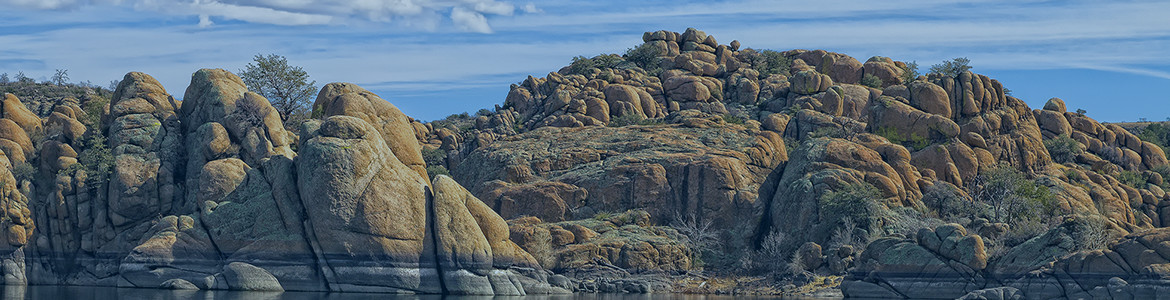
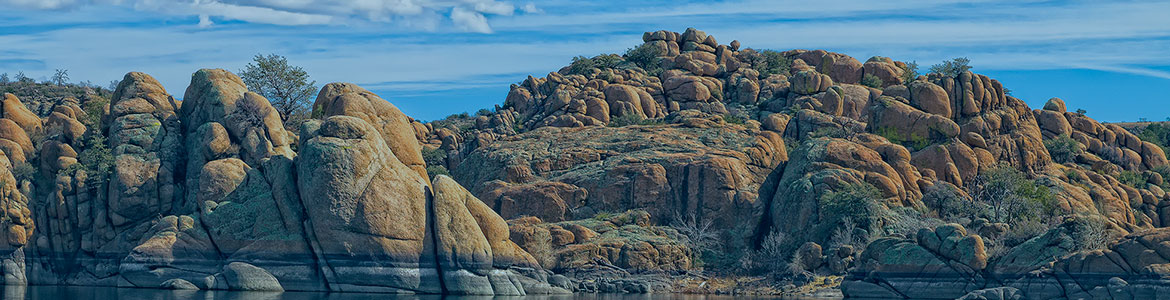
compress ui images

diff --git a/softwrench.sw4.kongsberg/web_content/kongsberg/styles/branding.css b/softwrench.sw4.kongsberg/web_content/kongsberg/styles/branding.css
@@ -12,6 +12,8 @@
 
         .page-signin .form-signin .logo {
             content: url(../images/logo-main-mobile.png);
+            /*width: 240px;*/
+            padding: 0 80px;
         }
 
 @media all and (min-width: 768px) {
@@ -21,23 +23,17 @@
 }
 
 .container header {
-    background: #143444 url(../images/header.png) no-repeat top left;
-    /*background: none;*/
+    background: #143444 url(../images/header.jpg) no-repeat top left;
+    -webkit-background-size: cover;
+    -moz-background-size: cover;
+    -o-background-size: cover;
+    background-size: cover;
 }
-
-    .container header .menu-admin {
-        /*background: #246d92;*/
-    }
 
     .container header .branding {
         background: none;
         display: none;
     }
-
-/*.container header .logo {
-        width: 115px;
-        margin-left: 5px;
-    }*/
 
 .horizontal-menu-container {
     background-color: rgba(135, 135, 135, 0.50);
@@ -45,10 +41,4 @@
 
 .container header .menu-grid .menu-expand {
     background-color: rgba(135, 135, 135, 0.50);
-}
-
-@media all and (min-width: 1180px) {
-    .container header {
-        background: #143444 url(../images/header.png) no-repeat top right;
-    }
 }

diff --git a/softwrench.sw4.gric/web_content/gric/styles/signin.css b/softwrench.sw4.gric/web_content/gric/styles/signin.css
@@ -5,6 +5,6 @@
 
 @media all and (min-width: 480px) {
     .page-signin .form-signin img.logo {
-        max-width: 80%;
+        max-width: 70%;
     }
 }
